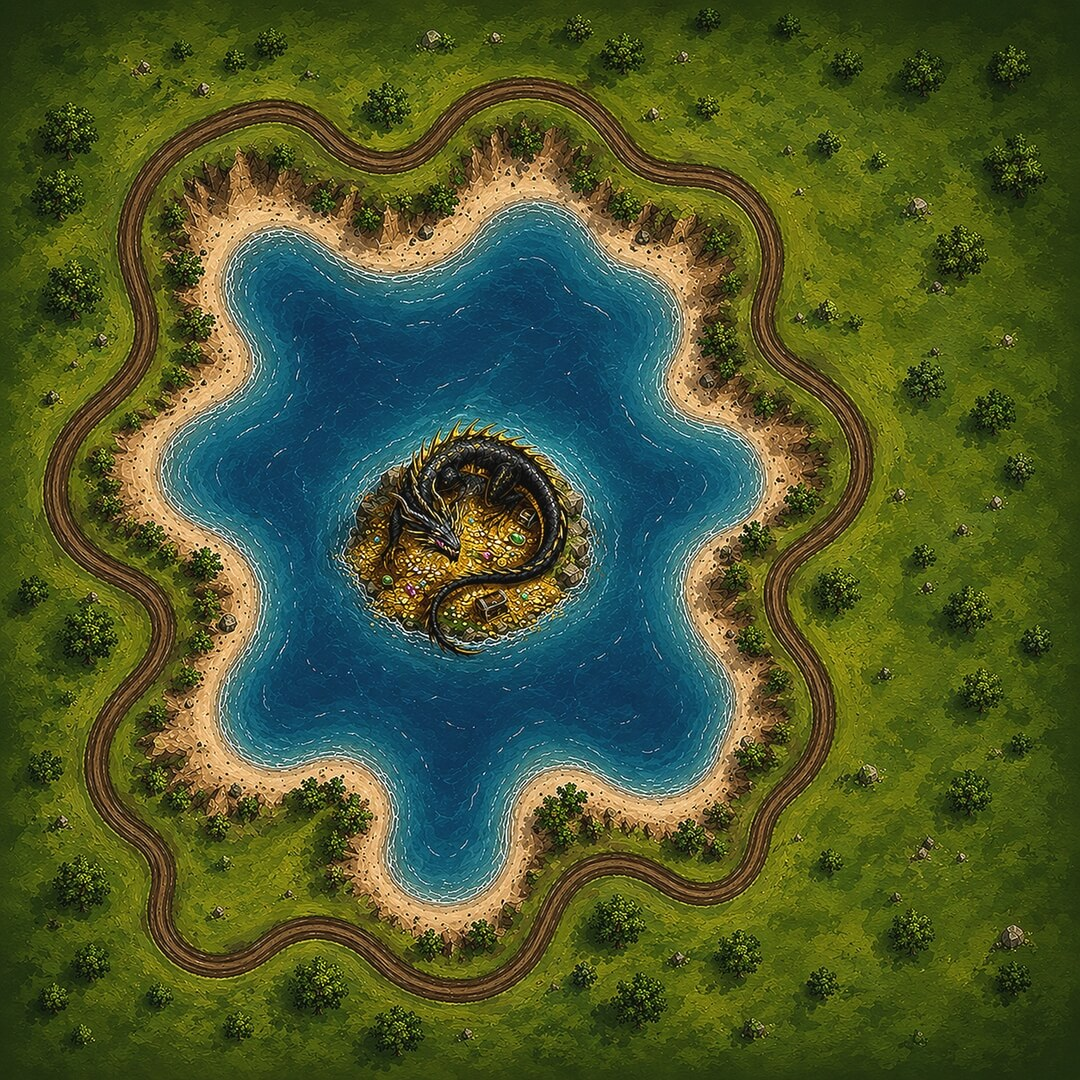
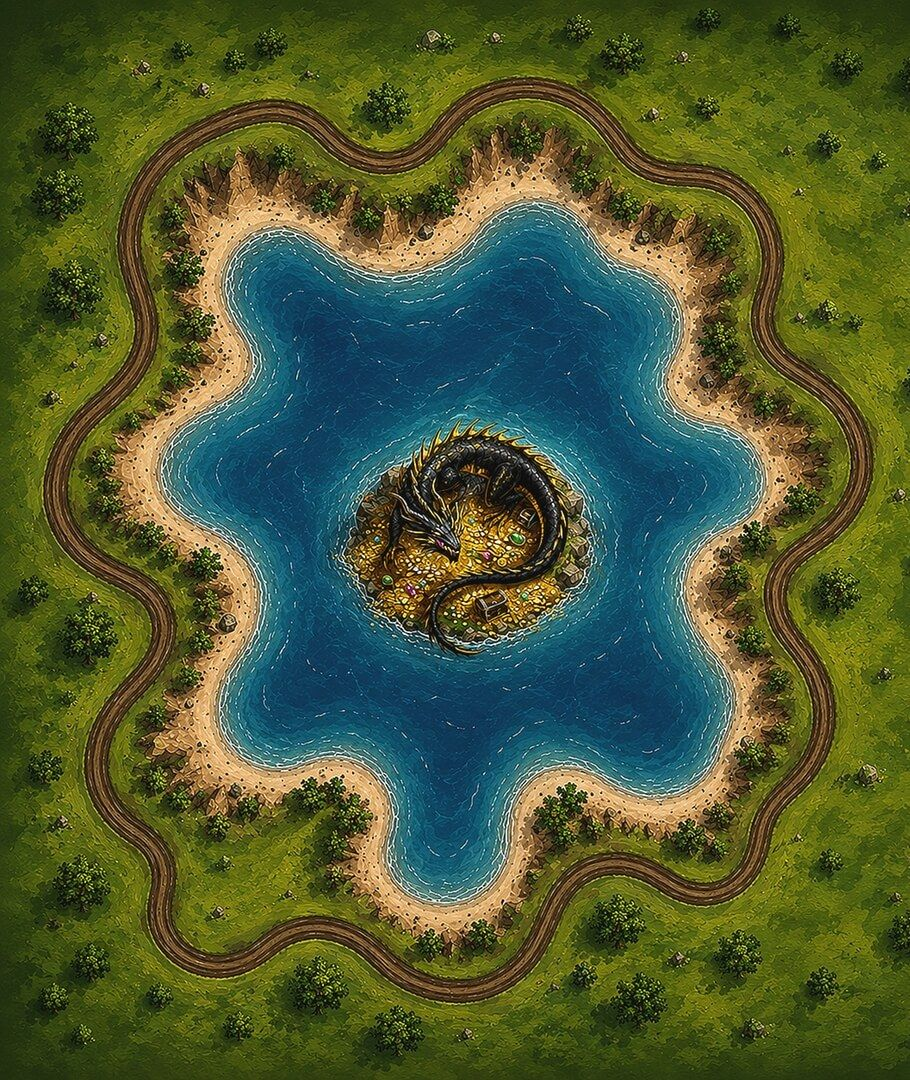
design updates

diff --git a/src/components/OverridesScreen.tsx b/src/components/OverridesScreen.tsx
@@ -14,7 +14,7 @@ interface OverridesScreenProps {
   updateGameState: (gs: GameState) => void;
 }
 
-const numInput = (value: number, onChange: (n: number) => void, width = '3.5rem') => (
+const numInput = (value: number, onChange: (n: number) => void, width = '1.6rem') => (
   <input
     type="number"
     value={Number.isFinite(value) ? value : 0}
@@ -49,7 +49,7 @@ const OverridesScreen: React.FC<OverridesScreenProps> = ({ gameState, updateGame
 
   return (
     <GameModal className="game-modal" backgroundImage="assets/screens/dragon.jpg" noBorder>
-      <div className="modal-content cheat-screen overrides-screen" style={{ color: 'white', fontFamily: 'Texturina' }}>
+      <div className="modal-content cheat-screen overrides-screen">
         <h2 className="game-title">⚖ {t('overridesScreen.title')}</h2>
 
         <div className="cheat-row">
@@ -57,7 +57,7 @@ const OverridesScreen: React.FC<OverridesScreenProps> = ({ gameState, updateGame
           {numInput(form.militiaHp, (n) => set({ militiaHp: n }))} {t('overridesScreen.hp')}
           {numInput(form.militiaDmgMin, (n) => set({ militiaDmgMin: n }))}–
           {numInput(form.militiaDmgMax, (n) => set({ militiaDmgMax: n }))} {t('overridesScreen.dmg')}
-          {numInput(form.militiaPrice, (n) => set({ militiaPrice: n }), '4.5rem')}🟡
+          {numInput(form.militiaPrice, (n) => set({ militiaPrice: n }), '3rem')}🟡
           <button
             className="game-menu-button"
             onClick={() => commit({ militiaHp: form.militiaHp, militiaDmgMin: form.militiaDmgMin, militiaDmgMax: form.militiaDmgMax, militiaPrice: form.militiaPrice })}
@@ -71,7 +71,7 @@ const OverridesScreen: React.FC<OverridesScreenProps> = ({ gameState, updateGame
           {numInput(form.riderHp, (n) => set({ riderHp: n }))} {t('overridesScreen.hp')}
           {numInput(form.riderDmgMin, (n) => set({ riderDmgMin: n }))}–
           {numInput(form.riderDmgMax, (n) => set({ riderDmgMax: n }))} {t('overridesScreen.dmg')}
-          {numInput(form.riderPrice, (n) => set({ riderPrice: n }), '4.5rem')}🟡
+          {numInput(form.riderPrice, (n) => set({ riderPrice: n }), '3rem')}🟡
           <button
             className="game-menu-button"
             onClick={() => commit({ riderHp: form.riderHp, riderDmgMin: form.riderDmgMin, riderDmgMax: form.riderDmgMax, riderPrice: form.riderPrice })}
@@ -90,7 +90,7 @@ const OverridesScreen: React.FC<OverridesScreenProps> = ({ gameState, updateGame
 
         <div className="cheat-row">
           <label>{t('overridesScreen.tileBasePrice')}</label>
-          {numInput(form.tileBasePrice, (n) => set({ tileBasePrice: n }), '4.5rem')}
+          {numInput(form.tileBasePrice, (n) => set({ tileBasePrice: n }), '3rem')}
           <button className="game-menu-button" onClick={() => commit({ tileBasePrice: form.tileBasePrice })}>
             {t('overridesScreen.set')}
           </button>

diff --git a/src/styles/modal.css b/src/styles/modal.css
@@ -2,7 +2,8 @@
   position: relative;
   width: 100%;
   height: 100%;
-  background-color: rgba(0, 0, 0, 0.6); /* Semi-transparent black overlay */
+  background-color: rgba(0, 0, 0, 0.6);
+  /* Semi-transparent black overlay */
   display: flex;
   justify-content: center;
   align-items: center;
@@ -10,7 +11,7 @@
 }
 
 .game-modal-wrapper {
-  position: fixed;
+  position: absolute;
   top: 0;
   left: 0;
   width: 100%;
@@ -82,9 +83,9 @@ button.decorated {
   background: transparent;
   background-repeat: no-repeat;
   background-size: contain;
+  background-position-x: center;
   width: 300px;
-  font-size: 1.4rem;
-  padding-top: 1.2rem;
+  font-size: 1.3rem;
   color: #f6d381;
   font-weight: bold;
   text-shadow: 3px 1px 5px black;
@@ -97,11 +98,11 @@ button.decorated {
   display: flex;
   justify-content: center;
   align-items: center;
-  height: 84px;
+  height: 80px;
 }
 
 .decorated-button-content {
-  margin-top: -26px;
+  margin-top: -0.25rem;
   display: flex;
   flex-direction: column;
   justify-content: center;

diff --git a/src/styles/CheatScreen.css b/src/styles/CheatScreen.css
@@ -1,15 +1,15 @@
 .cheat-row {
   display: flex;
   align-items: center;
-  justify-content: center;
+  justify-content: flex-end;
   gap: 8px;
-  margin: 10px 0;
   flex-wrap: wrap;
+  color: wheat;
 }
 
 .cheat-row label {
-  min-width: 110px;
   text-align: right;
+  font-size: 1.2rem;
 }
 
 /* All text on the cheat screen at 60% of its normal size (font only --
@@ -17,22 +17,19 @@
  * classes on the same ancestor (.cheat-screen.modal-content) so they
  * out-specificity modal.css's shared single-class rules regardless of
  * stylesheet import order. */
+
 .cheat-screen.modal-content .game-title {
   font-size: 2.4rem;
 }
 
 .cheat-screen.modal-content label {
-  font-size: 12px;
+  font-size: 1rem;
 }
 
 .cheat-screen.modal-content input[type='number'] {
-  font-size: 12px;
+  font-size: 1.2rem;
 }
 
 .cheat-screen.modal-content .game-menu-button {
-  font-size: 9px;
-}
-
-.cheat-screen.modal-content button.decorated {
-  font-size: 0.9rem;
+  font-size: 0.8rem;
 }

diff --git a/src/components/ScreenRenderer.tsx b/src/components/ScreenRenderer.tsx
@@ -133,9 +133,9 @@ export const ScreenRenderer: React.FC<ScreenRendererProps> = ({ gameState, updat
         {config.htmlMessage && (
           <div className="text-message" dangerouslySetInnerHTML={{ __html: config.htmlMessage }} />
         )}
-      </ScreenBackground>
-      {!config.sellMode && (
-        <div className="game-menu" style={{ top: '80vh' }}>
+
+        {!config.sellMode && (
+        <div className="game-menu">
             {buttons.map((btn, i) =>
               // The caravan screen decorates both buttons; the guards/fee
               // screen decorates only the primary pay/fight actions (secondary
@@ -163,6 +163,8 @@ export const ScreenRenderer: React.FC<ScreenRendererProps> = ({ gameState, updat
             )}
         </div>
       )}
+      </ScreenBackground>
+      
       {config.sellMode && (
         <div
           style={{

diff --git a/src/styles/screen.css b/src/styles/screen.css
@@ -1,5 +1,5 @@
 .screen-common {
-      position: fixed;
+      position: absolute;
       inset: 0;
       z-index: 5500;
       background-size: cover;
@@ -7,10 +7,17 @@
       display: flex;
       flex-direction: column;
       align-items: center;
-      justify-content: flex-start;
-      padding-top: 2rem;
-      padding-bottom: 2rem;
+      justify-content: center;
+      padding-top: 1rem;
+      padding-left: 1rem;
+      padding-right: 1rem;
       overflow-y: auto;
       animation: screenFadeIn 0.4s ease;
       transition: all 1s;
+}
+
+@media screen and (min-width: 769px) {
+      .screen-common {
+            position: absolute;
+      }
 }

diff --git a/src/components/CheatScreen.tsx b/src/components/CheatScreen.tsx
@@ -106,7 +106,7 @@ const CheatScreen: React.FC<CheatScreenProps> = ({ gameState, updateGameState })
 
   return (
     <GameModal className="game-modal" backgroundImage="assets/screens/dragon.jpg" noBorder>
-      <div className="modal-content cheat-screen" style={{ color: 'white', fontFamily: 'Texturina' }}>
+      <div className="modal-content cheat-screen">
         <h2 className="game-title">👻 {t('cheatScreen.title')}</h2>
 
         <div className="cheat-row">

diff --git a/src/styles/BattleScreen.css b/src/styles/BattleScreen.css
@@ -7,8 +7,6 @@
   max-width: 480px;
   padding: 16px;
   z-index: 6000;
-  /* cancel .screen-common padding */
-  margin-top: -12rem;
 }
 
 /* Still used by HeroHourScreen.tsx's own pre-battle title (a separate
@@ -173,10 +171,4 @@
   object-fit: contain;
   filter: drop-shadow(0 2px 4px #000);
   flex-shrink: 0;
-}
-
-.battle-screen button.decorated {
-  font-size: 1.6rem;
-  padding-left: 20px;
-  padding-right: 38px;
 }

diff --git a/src/styles/App.css b/src/styles/App.css
@@ -123,7 +123,7 @@ body {
 @media screen and (max-width: 768px) {
   .board-section {
     width: 100vw;
-    aspect-ratio: 1 / 1;
+    aspect-ratio: 4 / 5;
     height: auto;
   }
 }
@@ -139,10 +139,6 @@ body {
     justify-content: flex-start;
     height: 100vh;
     overflow: hidden;
-  }
-
-  .screen-common {
-    position: absolute !important;
   }
 
   .board-section {

diff --git a/src/components/TileCard.tsx b/src/components/TileCard.tsx
@@ -520,7 +520,6 @@ export const TileCard: React.FC<TileCardProps> = ({
                   width: '100%',
                   marginBottom: '0',
                   height: '80px',
-                  paddingBottom: '8px',
                   filter: 'drop-shadow(2px 2px 3px #00000050)',
                 }}
               >

diff --git a/src/styles/OverridesScreen.css b/src/styles/OverridesScreen.css
@@ -1,8 +1,4 @@
-/* Reuses .cheat-screen / .cheat-row (see CheatScreen.css) for the shared
-   modal look and 60%-scale text; only the toggle rows need extra rules. */
-.overrides-screen .cheat-row label {
-  min-width: 130px;
-}
+
 
 .overrides-toggle {
   gap: 12px;
